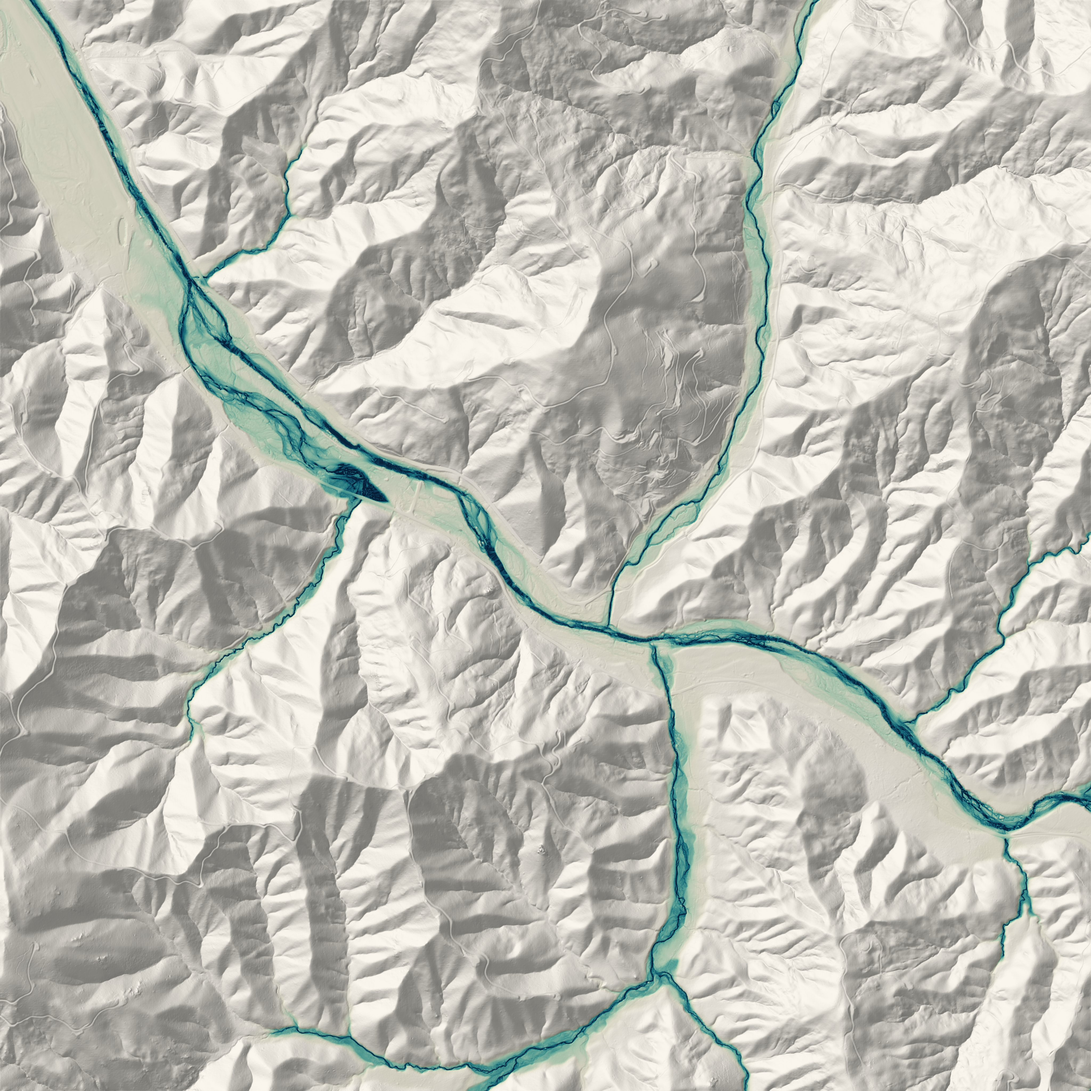
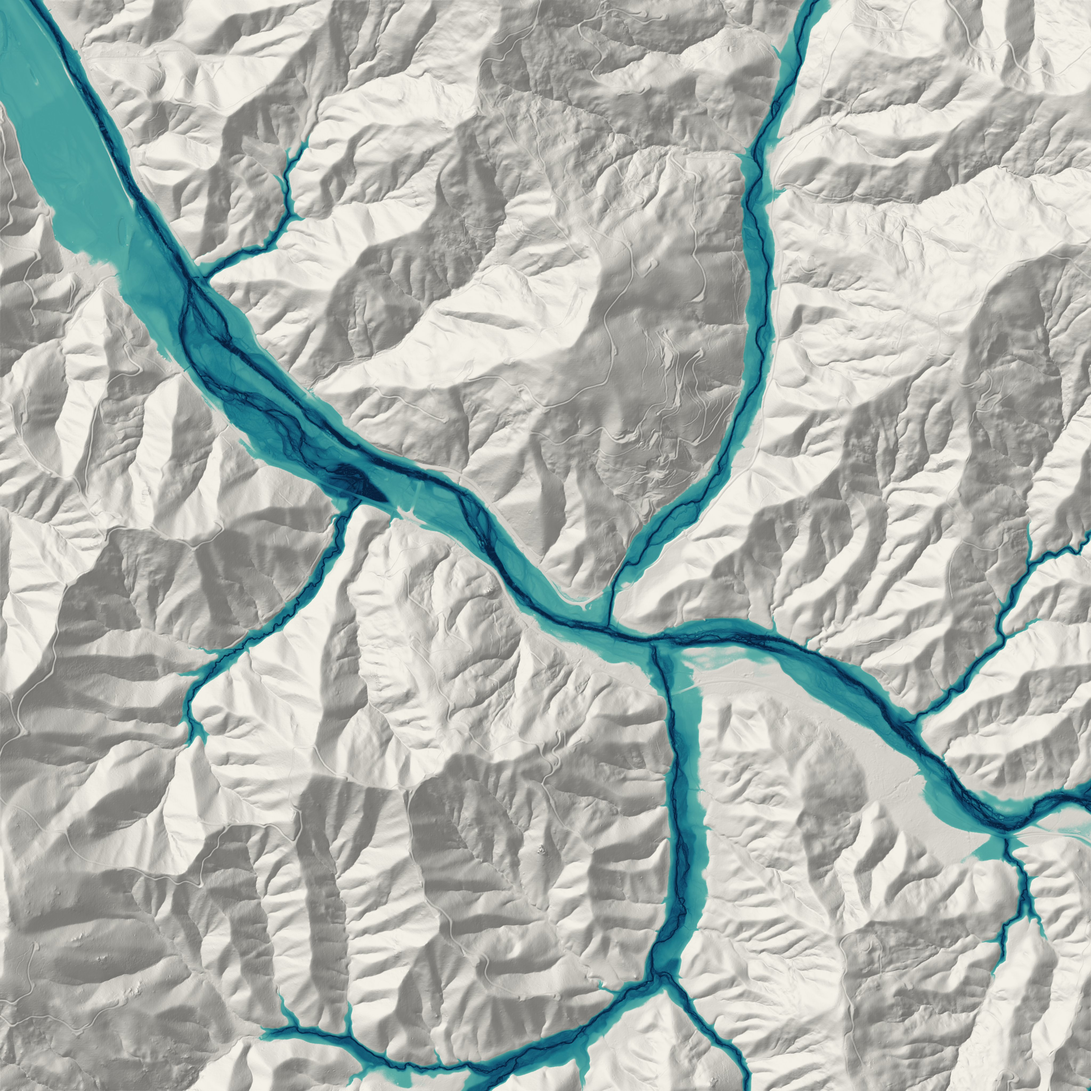
Floodplain palettes confined to the valley floor (0-5 m above the river)
Each palette's full ramp now spans river level to 5 m, with a soft edge at 4.5-5.5 m;
higher ground is one neutral color with stronger relief shading. Legend ticks at
1, 2 and 3 m.

diff --git a/index.html b/index.html
@@ -719,10 +719,10 @@ function initThree(){
     $("#leg3dRoads").innerHTML = rc.map(c => `<div><b style="background:${c.color}"></b>${esc3(c.name)}</div>`).join("");
   }
   // floodplain palettes (build_rem_styles.py): REM rebuilt at 1 m, each with its own stretch and legend
-  const REMNOTE = { glow: "The glowing ground sits within 2 m of the river: room for the water to spread out again.",
-    copper: "The darkest ground sits within 2 m of the river: room for the water to spread out again.",
-    dusk: "The darkest ground sits within 2 m of the river; the color shifts from teal downstream to rust upstream.",
-    teal: "Dark teal ground sits within 2 m of the river: room for the water to spread out again." };
+  const REMNOTE = { glow: "Color marks the valley floor, up to 5 m above the river; the glowing ground sits within a meter or two of the water.",
+    copper: "Color marks the valley floor, up to 5 m above the river; the darkest ground sits within a meter or two of the water.",
+    dusk: "Color marks the valley floor, up to 5 m above the river, shifting from teal downstream to rust upstream.",
+    teal: "Color marks the valley floor, up to 5 m above the river; the darkest teal sits within a meter or two of the water." };
   const DARK = { glow: 1 }, remTex = {};
   let remStyle = "glow";
   function setRem(k, first){
@@ -732,7 +732,7 @@ function initThree(){
     $$("#remPick button").forEach(b => b.setAttribute("aria-pressed", String(b.dataset.r === k)));
     const at = (p, l) => `<span style="left:${(p * 100).toFixed(1)}%">${l}</span>`;
     $("#remBar").style.background = `linear-gradient(90deg,${st.grad.join(",")})`;
-    $("#remTicks").innerHTML = at(0, "river") + Object.entries(st.ticks).map(([l, p]) => at(p, l)).join("") + at(1, st.top + " m");
+    $("#remTicks").innerHTML = at(0, "river") + Object.entries(st.ticks).map(([l, p]) => at(p, l)).join("") + at(1, st.topLabel || st.top + " m");
     const done = t => { remTex[k] = t; if (remStyle === k) { U.tRem.value = t; kick(); } };
     if (remTex[k]) done(remTex[k]); else if (!first) tex(`data/tex_rem_${k}.jpg`).then(done);
   }
